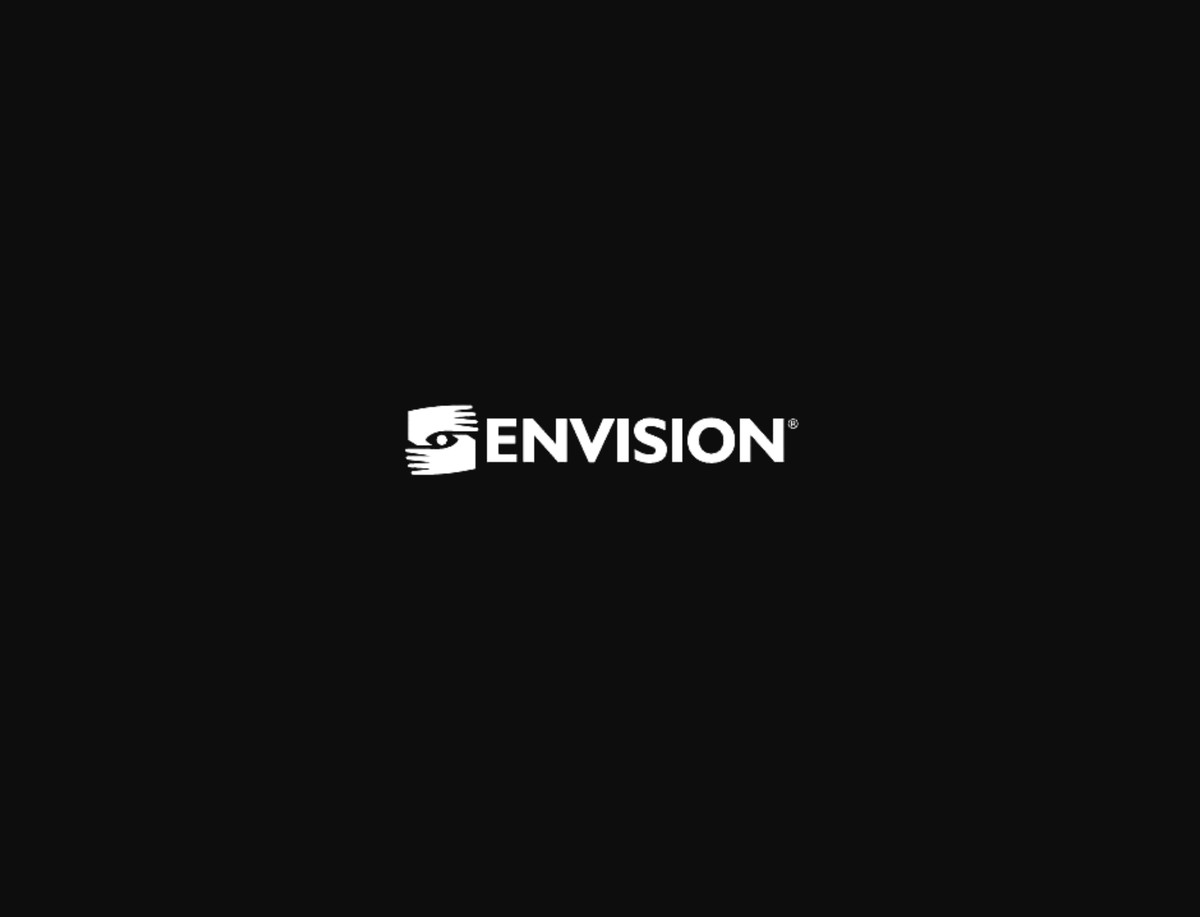
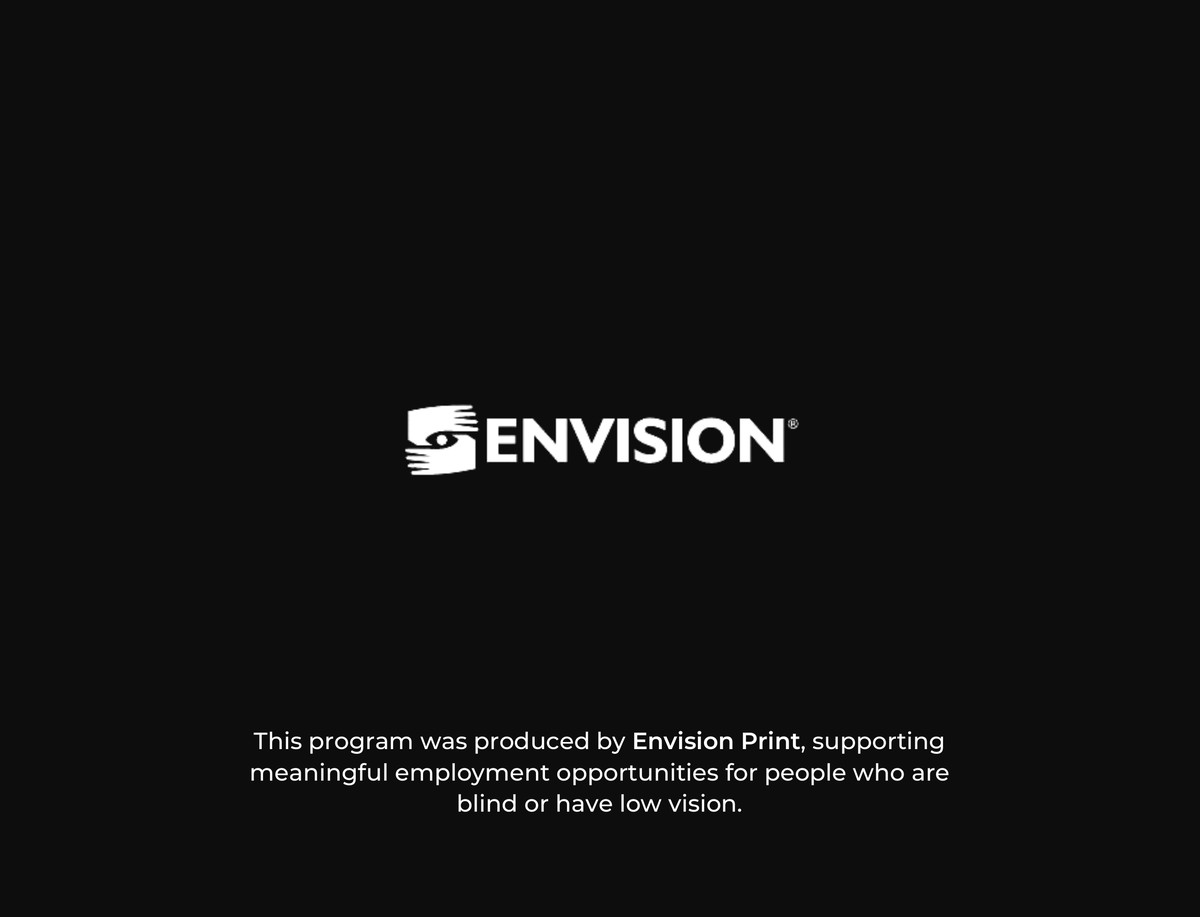
Add the Envision Print credit to the back cover
Page 20 now carries "This program was produced by Envision Print,
supporting meaningful employment opportunities for people who are blind
or have low vision." The screen reader text for that page carries it too,
so it is not lost to anyone listening.

Claude-Session: https://claude.ai/code/session_01WhP5V5GRsyjrhchLSMVTFf

Changed region(s): [[0.2158, 0.7939, 0.8017, 0.8855]]

diff --git a/program.html b/program.html
@@ -87,7 +87,7 @@ var PAGES = [
   "Sponsor advertisements. Forvis Mazars: Celebrating good works, proud to sponsor A Night for Vision. 6 Meridian: Navigating Community Prosperity Together, proud to support the Envision Gala.",
   "Sponsor advertisements. IMA is proud to celebrate Envision's impact on the Wichita community at this year's Envision Gala. Hutton: Proud to support A Night for Vision.",
   "Summit Films, proud sponsor of Envision. With Thanks: tonight takes many hands. Thank you to the volunteers who gave their time, and to the Wichita State Delta Gammas, whose service helps make this evening possible.",
-  "Back cover with the Envision logo."
+  "Back cover with the Envision logo. This program was produced by Envision Print, supporting meaningful employment opportunities for people who are blind or have low vision."
 ];
 
 var i = 0, img = document.getElementById('pg'), count = document.getElementById('count'),
